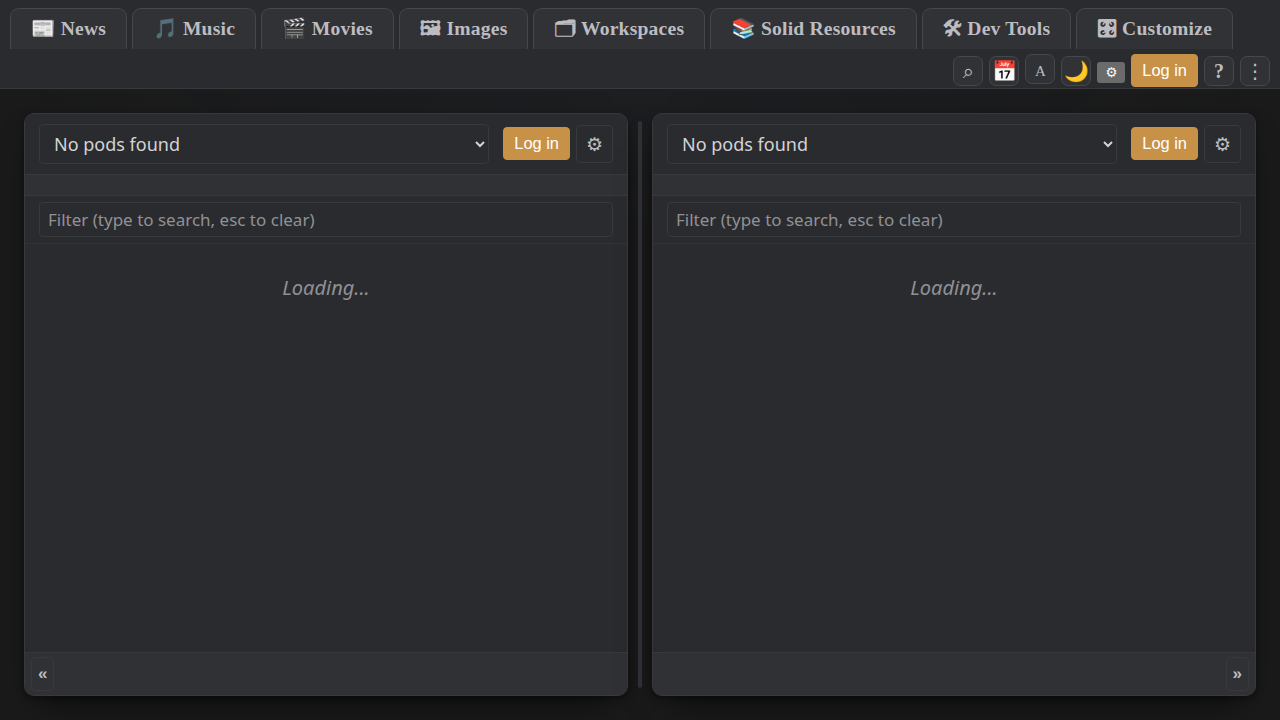
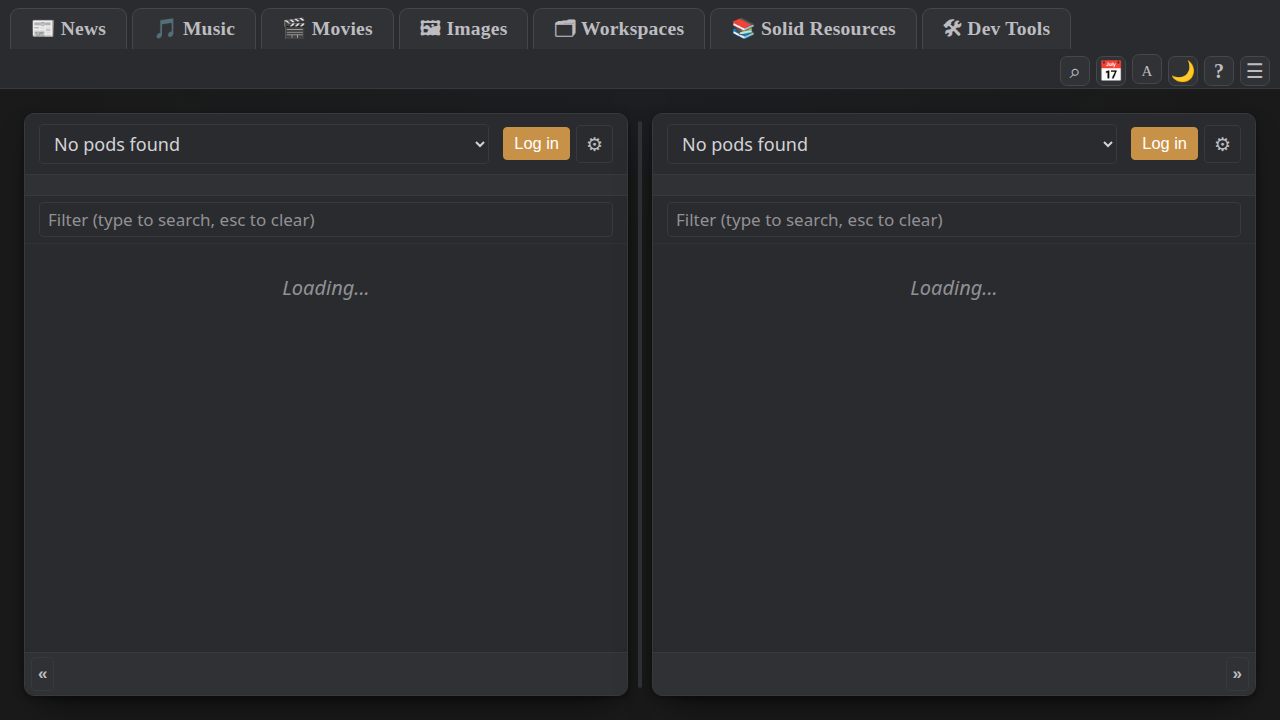
Fold Solid Resources into Dev Tools; remove the tab and the plugin
The five reference links (Website, Tag Explainer, FAQ, Glossary, Catalog)
now lead the Dev Tools sub-tabs, ahead of the four playgrounds. The
Solid Resources tab is gone and so is plugins/solid-resources/ — removed
outright (not pantry: its page no longer exists), including its palette
card, tabs.ttl subject, accent rule, and help mentions. Also fixed two
stale bits found in passing: the Workspaces tab accent rule still targeted
omp's panel-workspaces id (now panel-podz), and help still said Podz.

Changed region(s): [[0.75, 0.0, 0.9688, 0.1222]]

diff --git a/assets/dk-chrome.css b/assets/dk-chrome.css
@@ -106,8 +106,7 @@
     #dk-tabs > .sol-tabs-bar > button[data-tab-id="panel-movies"].active { background: var(--tab-movies); border-color: var(--tab-movies); color: var(--tab-on); }
     #dk-tabs > .sol-tabs-bar > button[data-tab-id="panel-news"].active   { background: var(--tab-news);   border-color: var(--tab-news);   color: var(--tab-on); }
     #dk-tabs > .sol-tabs-bar > button[data-tab-id="panel-images"].active { background: var(--tab-images); border-color: var(--tab-images); color: var(--tab-on); }
-    #dk-tabs > .sol-tabs-bar > button[data-tab-id="panel-workspaces"].active     { background: var(--tab-workspaces); border-color: var(--tab-workspaces); color: var(--tab-on); }
-    #dk-tabs > .sol-tabs-bar > button[data-tab-id="panel-solid-resources"].active { background: var(--tab-resources);  border-color: var(--tab-resources);  color: var(--tab-on); }
+    #dk-tabs > .sol-tabs-bar > button[data-tab-id="panel-podz"].active     { background: var(--tab-workspaces); border-color: var(--tab-workspaces); color: var(--tab-on); }
     #dk-tabs > .sol-tabs-bar > button[data-tab-id="panel-dev-tools"].active       { background: var(--tab-devtools);   border-color: var(--tab-devtools);   color: var(--tab-on); }
     #dk-tabs > .sol-tabs-bar > button[data-tab-id="Favourites"].active { background: var(--tab-fav, #e6b800); border-color: var(--tab-fav, #e6b800); color: var(--tab-on); }
     /* While help fills the tab content (a .sol-inline-panel is present), no tab
@@ -273,12 +272,12 @@
     /* Solid Resources / Dev Tools tabs: each is a sol-include of a nested
        <sol-tabs variant="sub"> whose sub-tabs are full-bleed iframes. Carry the
        flex height through the include wrapper down to a borderless iframe. */
-    #panel-solid-resources, #panel-dev-tools { height: 100%; min-height: 0; }
-    :is(#panel-solid-resources, #panel-dev-tools) > .si-content,
-    :is(#panel-solid-resources, #panel-dev-tools) sol-tabs[variant="sub"] {
+     #panel-dev-tools { height: 100%; min-height: 0; }
+    #panel-dev-tools > .si-content,
+    #panel-dev-tools sol-tabs[variant="sub"] {
       display: flex; flex-direction: column; flex: 1; min-height: 0; width: 100%;
     }
-    :is(#panel-solid-resources, #panel-dev-tools) iframe.sol-tab-embed { border: 0; }
+    #panel-dev-tools iframe.sol-tab-embed { border: 0; }
 
     /* Sign-in is on demand now (the ☰ "Sign in…" item or any 401): the
        sol-login chip stays hidden until the component surfaces itself with

diff --git a/help/dk.html b/help/dk.html
@@ -41,15 +41,15 @@
     <li>Click a picture for the full-size view — use ← → to page, click to zoom to 100%, or open it on Wikimedia Commons.</li>
   </ul>
 
-  <h3>🗂 Podz &amp; 🐧 SolidOS</h3>
+  <h3>🗂 Workspaces <h3>🗂 Podz &amp; 🐧 SolidOS</h3>amp; 🐧 SolidOS</h3>
   <ul>
-    <li><strong>Podz</strong>: a two-pane Solid pod browser — sign in to a pod on either side and drag resources between them.</li>
+    <li><strong>Workspaces</strong>: a two-pane Solid pod browser — sign in to a pod on either side and drag resources between them.</li>
     <li><strong>SolidOS</strong>: a pod tree on the left, the SolidOS data browser on the right; click the Solid logo next to a tree item to open it on the right.</li>
   </ul>
 
-  <h3>📚 Solid Resources &amp; 🛠 Dev Tools</h3>
+  <h3>🛠 Dev Tools</h3>
   <ul>
-    <li>Reference links (website, FAQ, glossary, catalog) and developer playgrounds (JSON-LD, SHACL, SPARQL, an RDF validator) — each opens inside the tab.</li>
+    <li>Solid reference links (website, FAQ, glossary, catalog) and developer playgrounds (JSON-LD, SHACL, SPARQL, an RDF validator) — each opens inside the tab.</li>
   </ul>
 
   <h3>★ Community Favorites</h3>

diff --git a/html-first.html b/html-first.html
@@ -28,11 +28,6 @@
      data-defer
   >🗂 Workspaces</a>
 
-  <a href="./plugins/solid-resources/resources.html" id="panel-solid-resources"
-     data-handler="sol-include"
-     data-trusted
-  >📚 Solid Resources</a>
-
   <a href="./plugins/dev-tools/dev-tools.html" id="panel-dev-tools"
      data-handler="sol-include"
      data-trusted

diff --git a/plugins/dev-tools/dev-tools.html b/plugins/dev-tools/dev-tools.html
@@ -1,4 +1,9 @@
 <sol-tabs variant="sub">
+  <a href="https://solidproject.org" data-handler="iframe" data-src="https://solidproject.org">Website</a>
+  <a href="https://timbl.solidcommunity.net/2023/03%20EWADA/TAGExplainerforSolid.html" data-handler="iframe" data-src="https://timbl.solidcommunity.net/2023/03%20EWADA/TAGExplainerforSolid.html">Tag Explainer</a>
+  <a href="https://solidproject.org/FAQ" data-handler="iframe" data-src="https://solidproject.org/FAQ">FAQ</a>
+  <a href="https://solidproject.solidcommunity.net/glossary" data-handler="iframe" data-src="https://solidproject.solidcommunity.net/glossary">Glossary</a>
+  <a href="https://solidproject.solidcommunity.net/catalog/" data-handler="iframe" data-src="https://solidproject.solidcommunity.net/catalog/">Catalog</a>
   <a href="https://json-ld.github.io/json-ld.org/playground/" data-handler="iframe" data-src="https://json-ld.github.io/json-ld.org/playground/">JSON-LD Playground</a>
   <a href="http://easyrdf.org/converter" data-handler="iframe" data-src="http://easyrdf.org/converter">RDF Validator</a>
   <a href="https://shacl.org/playground/" data-handler="iframe" data-src="https://shacl.org/playground/">SHACL Playground</a>

diff --git a/help/dk-owner.html b/help/dk-owner.html
@@ -33,7 +33,7 @@
     <li><strong>＋</strong> add your own topics and collections.</li>
   </ul>
 
-  <h3>🗂 Podz &amp; 🐧 SolidOS</h3>
+  <h3>🗂 Workspaces <h3>🗂 Podz &amp; 🐧 SolidOS</h3>amp; 🐧 SolidOS</h3>
   <ul>
     <li><strong>Podz</strong>: sign in to a pod on either side and drag resources between panes.</li>
     <li><strong>SolidOS</strong>: the pod tree's Solid logo opens any resource in the data browser; your sign-in is shared into the browser pane.</li>

diff --git a/src/dk-tabs-shell.js b/src/dk-tabs-shell.js
@@ -14,7 +14,7 @@
     // The DEFAULT tab set; panels removed from the menu (pantry items a user
     // can re-add via Customize) simply resolve to null here, and re-added
     // ones work through paneForName/onTab regardless of this list.
-    const PANEL_KEYS = ['news', 'music', 'movies', 'images', 'podz', 'solidos', 'home', 'solid-resources', 'dev-tools', 'customize'];
+    const PANEL_KEYS = ['news', 'music', 'movies', 'images', 'podz', 'solidos', 'home', 'dev-tools', 'customize'];
     const panelEl   = (key) => document.getElementById('panel-' + key);
     const allPanels = () => PANEL_KEYS.map(panelEl).filter(Boolean);
     let audioName = 'music';

diff --git a/notes.md b/notes.md
@@ -2,11 +2,6 @@
 # TO-DO
 --------
 
-* remove the home tab, news should be first and should be selected automatically if nothing else is specified as selected on startup;
-* remove the SolidOS tab but not the plugin
-* Solid Resources & DevTools submenus should not be part of the tabs menu, they are part of the plugin, not the chrome, so maybe have their html page should 
-* lazy load media ie no music playlists until user selects music tab
-
 CLAUDE: IGNORE EVERYTHING BELOW HERE
 
 ----------
@@ -16,7 +11,17 @@ CLAUDE: IGNORE EVERYTHING BELOW HERE
 --------
 # DONE
 --------
-data-kitchen is an electron app that packages a solid server, a proxy, and an app containing multiple subapps that access the server
+## 3. you totally misunderstood what i meant about the solid-resources and dev-tools - they should be plugins and
+  they should have tabs on the main tabset but their submenus should be on the page loaded with the plugin
+
+
+## 2. remove the home tab, news should be first and should be selected automatically if nothing else is specified as selected on startup;
+* remove the SolidOS tab but not the plugin
+* Solid Resources & DevTools submenus should not be part of the tabs menu, they are part of the plugin, not the chrome, so maybe have their html page should 
+* lazy load media ie no music playlists until user selects music tab
+
+
+## 1. data-kitchen is an electron app that packages a solid server, a proxy, and an app containing multiple subapps that access the server
 it will eventually replace the current version of https://github.com/solidOS/data-kitchen, which i control
 
 dk =  /home/jeff/solid/data-kitchen - where everything should end up, eventually a repo